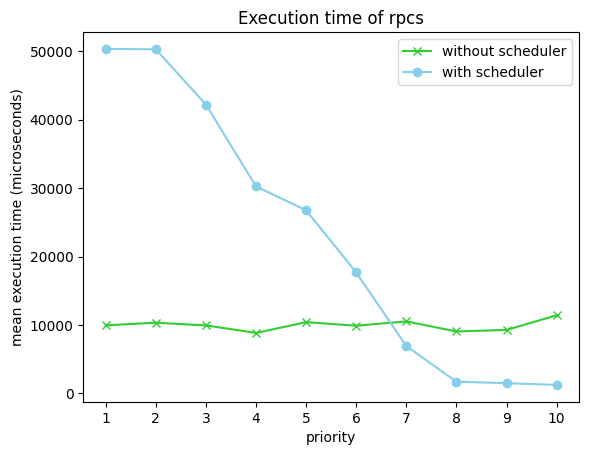
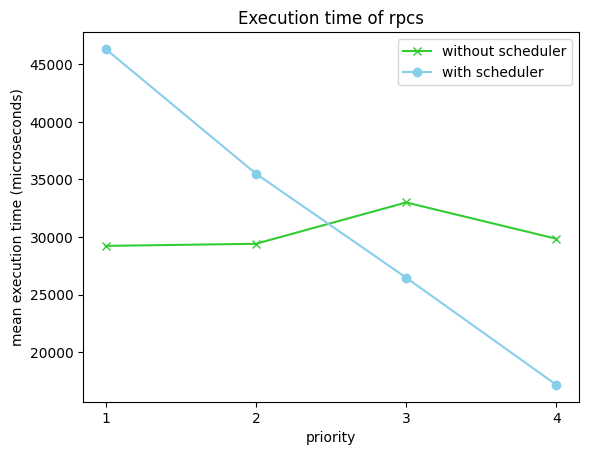
Change go scheduler implementation so that all same priority rpc calls run concurrently

diff --git a/helloworld/client/go_client/main.go b/helloworld/client/go_client/main.go
@@ -35,10 +35,12 @@ import (
 )
 
 var (
-	addr          = flag.String("addr", "localhost:50051", "the address to connect to")
-	debug         = false
-	input_file    = ""
-	output_file   = ""
+	addr                   = flag.String("addr", "localhost:50051", "the address to connect to")
+	debug                  = false
+	input_file             = ""
+	output_file            = ""
+	priorities_and_threads = make(map[int]map[int]Thread)
+	// priorities_and_threads = make(map[int][]Thread)
 	threads       = make(map[int]Thread)
 	use_scheduler = false
 	mutex         sync.Mutex
@@ -47,6 +49,12 @@ var (
 type Thread struct {
 	priority int
 	channel  chan bool
+}
+
+type SubscribeElement struct {
+	priority int
+	numbers  []int32
+	descr    string
 }
 
 func write_to_file(time int64, descr string) {
@@ -95,6 +103,7 @@ func thread(state <-chan bool, unsubscribe chan<- int, id int, numbers []int32, 
 		log.Fatalf("%v.ComputeMean(_) = _, %v", client, err)
 	}
 
+	time.Sleep(7000 * time.Microsecond)
 	for _, number := range numbersInt {
 
 		if active && (len(state) != 0) {
@@ -136,75 +145,82 @@ func thread(state <-chan bool, unsubscribe chan<- int, id int, numbers []int32, 
 		log.Fatalf("Thread %v %v.ComputeMean() got error %v, want %v", id, stream, err, nil)
 	}
 	elapsed := time.Since(start)
-	microseconds_elapsed := elapsed.Microseconds()
-	write_to_file(microseconds_elapsed, descr)
-	if debug {
-		log.Printf("Thread %v Got mean: %v", id, reply.Value)
-	}
 	if use_scheduler {
 		unsubscribe <- id
+	}
+	microseconds_elapsed := elapsed.Microseconds()
+	go write_to_file(microseconds_elapsed, descr)
+	if debug {
+		log.Printf("Thread %v Got mean: %v", id, reply.Value)
 	}
 	wg.Done()
 }
 
 func get_max_priority() int {
-	if len(threads) == 0 {
-		return -1
-	}
-
 	max_priority := 0
-	max_id := -1
-	for id, thread := range threads {
-		if thread.priority > max_priority || thread.priority == max_priority && id < max_id {
-			max_id = id
-			max_priority = thread.priority
+	for priority, _ := range priorities_and_threads {
+		if priority > max_priority {
+			max_priority = priority
 		}
 	}
 
-	return max_id
+	return max_priority
 }
 
-func scheduler(subscribe <-chan string, wg *sync.WaitGroup) {
-	unsubscribe := make(chan int, 20)
-	max_id := -1
-	running_id := -1
+func set_channels(priority int, what bool) {
+	for _, thread := range priorities_and_threads[priority] {
+		thread.channel <- what
+	}
+}
+
+func scheduler(subscribe <-chan SubscribeElement, wg *sync.WaitGroup) {
+	unsubscribe := make(chan int, 100)
 	id := 1
+	max_priority := 0
 
 	for {
 		select {
-		case subscribe_str := <-subscribe:
-			var _, numbers, priority = parse_line(subscribe_str)
+		case subscribe_elem := <-subscribe:
 			state_channel := make(chan bool, 2)
-			threads[id] = Thread{priority: priority, channel: state_channel}
+			priority := subscribe_elem.priority
+			numbers := subscribe_elem.numbers
+			descr := subscribe_elem.descr
+			threads[id] = Thread{priority: subscribe_elem.priority}
 
 			if use_scheduler {
-				if max_id == -1 || priority > threads[max_id].priority {
-					go thread(state_channel, unsubscribe, id, numbers, wg, subscribe_str, true)
-					max_id = id
-					if running_id != -1 {
-						threads[running_id].channel <- false
-					}
-					running_id = max_id
+				if _, ok := priorities_and_threads[priority]; ok {
+					priorities_and_threads[priority][id] = Thread{priority: priority, channel: state_channel}
 				} else {
-					go thread(state_channel, unsubscribe, id, numbers, wg, subscribe_str, false)
+					priorities_and_threads[priority] = make(map[int]Thread)
+					priorities_and_threads[priority][id] = Thread{priority: priority, channel: state_channel}
+				}
+				priorities_and_threads[priority][id] = Thread{priority: priority, channel: state_channel}
+				if max_priority == 0 {
+					max_priority = priority
+					go thread(state_channel, unsubscribe, id, numbers, wg, descr, true)
+				} else if (priority == max_priority) || (max_priority == 0) {
+					go thread(state_channel, unsubscribe, id, numbers, wg, descr, true)
+				} else if priority > max_priority {
+					set_channels(max_priority, false)
+					go thread(state_channel, unsubscribe, id, numbers, wg, descr, true)
+					max_priority = priority
+				} else {
+					go thread(state_channel, unsubscribe, id, numbers, wg, descr, false)
 				}
 			} else {
-				go thread(state_channel, unsubscribe, id, numbers, wg, subscribe_str, true)
+				go thread(state_channel, unsubscribe, id, numbers, wg, descr, true)
 			}
 			if debug {
 				log.Printf("Subscribed: %v", id)
 			}
 			id += 1
 		case unsubscribe_id := <-unsubscribe:
-			delete(threads, unsubscribe_id)
-			running_id = -1
-			max_id = get_max_priority()
-			if debug {
-				log.Printf("Unsubscribed: %v, new max_id = %v", unsubscribe_id, max_id)
-			}
-			if max_id != -1 {
-				running_id = max_id
-				threads[max_id].channel <- true
+			priority := threads[unsubscribe_id].priority
+			delete(priorities_and_threads[priority], unsubscribe_id)
+			if len(priorities_and_threads[priority]) == 0 {
+				delete(priorities_and_threads, priority)
+				max_priority = get_max_priority()
+				set_channels(max_priority, true)
 			}
 		}
 	}
@@ -271,7 +287,7 @@ func main() {
 	}
 	var wg sync.WaitGroup
 	wg.Add(count_lines(input_file))
-	subscribe := make(chan string, 20)
+	subscribe := make(chan SubscribeElement, 100)
 
 	go scheduler(subscribe, &wg)
 
@@ -290,7 +306,9 @@ func main() {
 	start := time.Now()
 	for scanner.Scan() {
 		// time.Sleep(300 * time.Microsecond)
-		subscribe <- scanner.Text()
+		descr := scanner.Text()
+		var _, numbers, priority = parse_line(descr)
+		subscribe <- SubscribeElement{priority: priority, numbers: numbers, descr: descr}
 	}
 
 	if err := scanner.Err(); err != nil {

diff --git a/helloworld/python_scripts/scheduler_scripts/generate_input_file.py b/helloworld/python_scripts/scheduler_scripts/generate_input_file.py
@@ -1,7 +1,8 @@
 import random
 
 list_length = 20
-priority_range = 10
+priority_range = 4
+number_of_calls = 500
 
 f = open("input_file.txt", "w")
 
@@ -9,7 +10,7 @@ def generate_random_numbers(length, rng = 100):
     arr = [str(random.randint(0, rng)) for _ in range(length)]
     return ",".join(arr)
 
-for _ in range(100):
+for _ in range(number_of_calls):
     line = "compute_mean "
     line += generate_random_numbers(list_length)
     line += " " + str(random.randint(1, priority_range)) + "\n"
